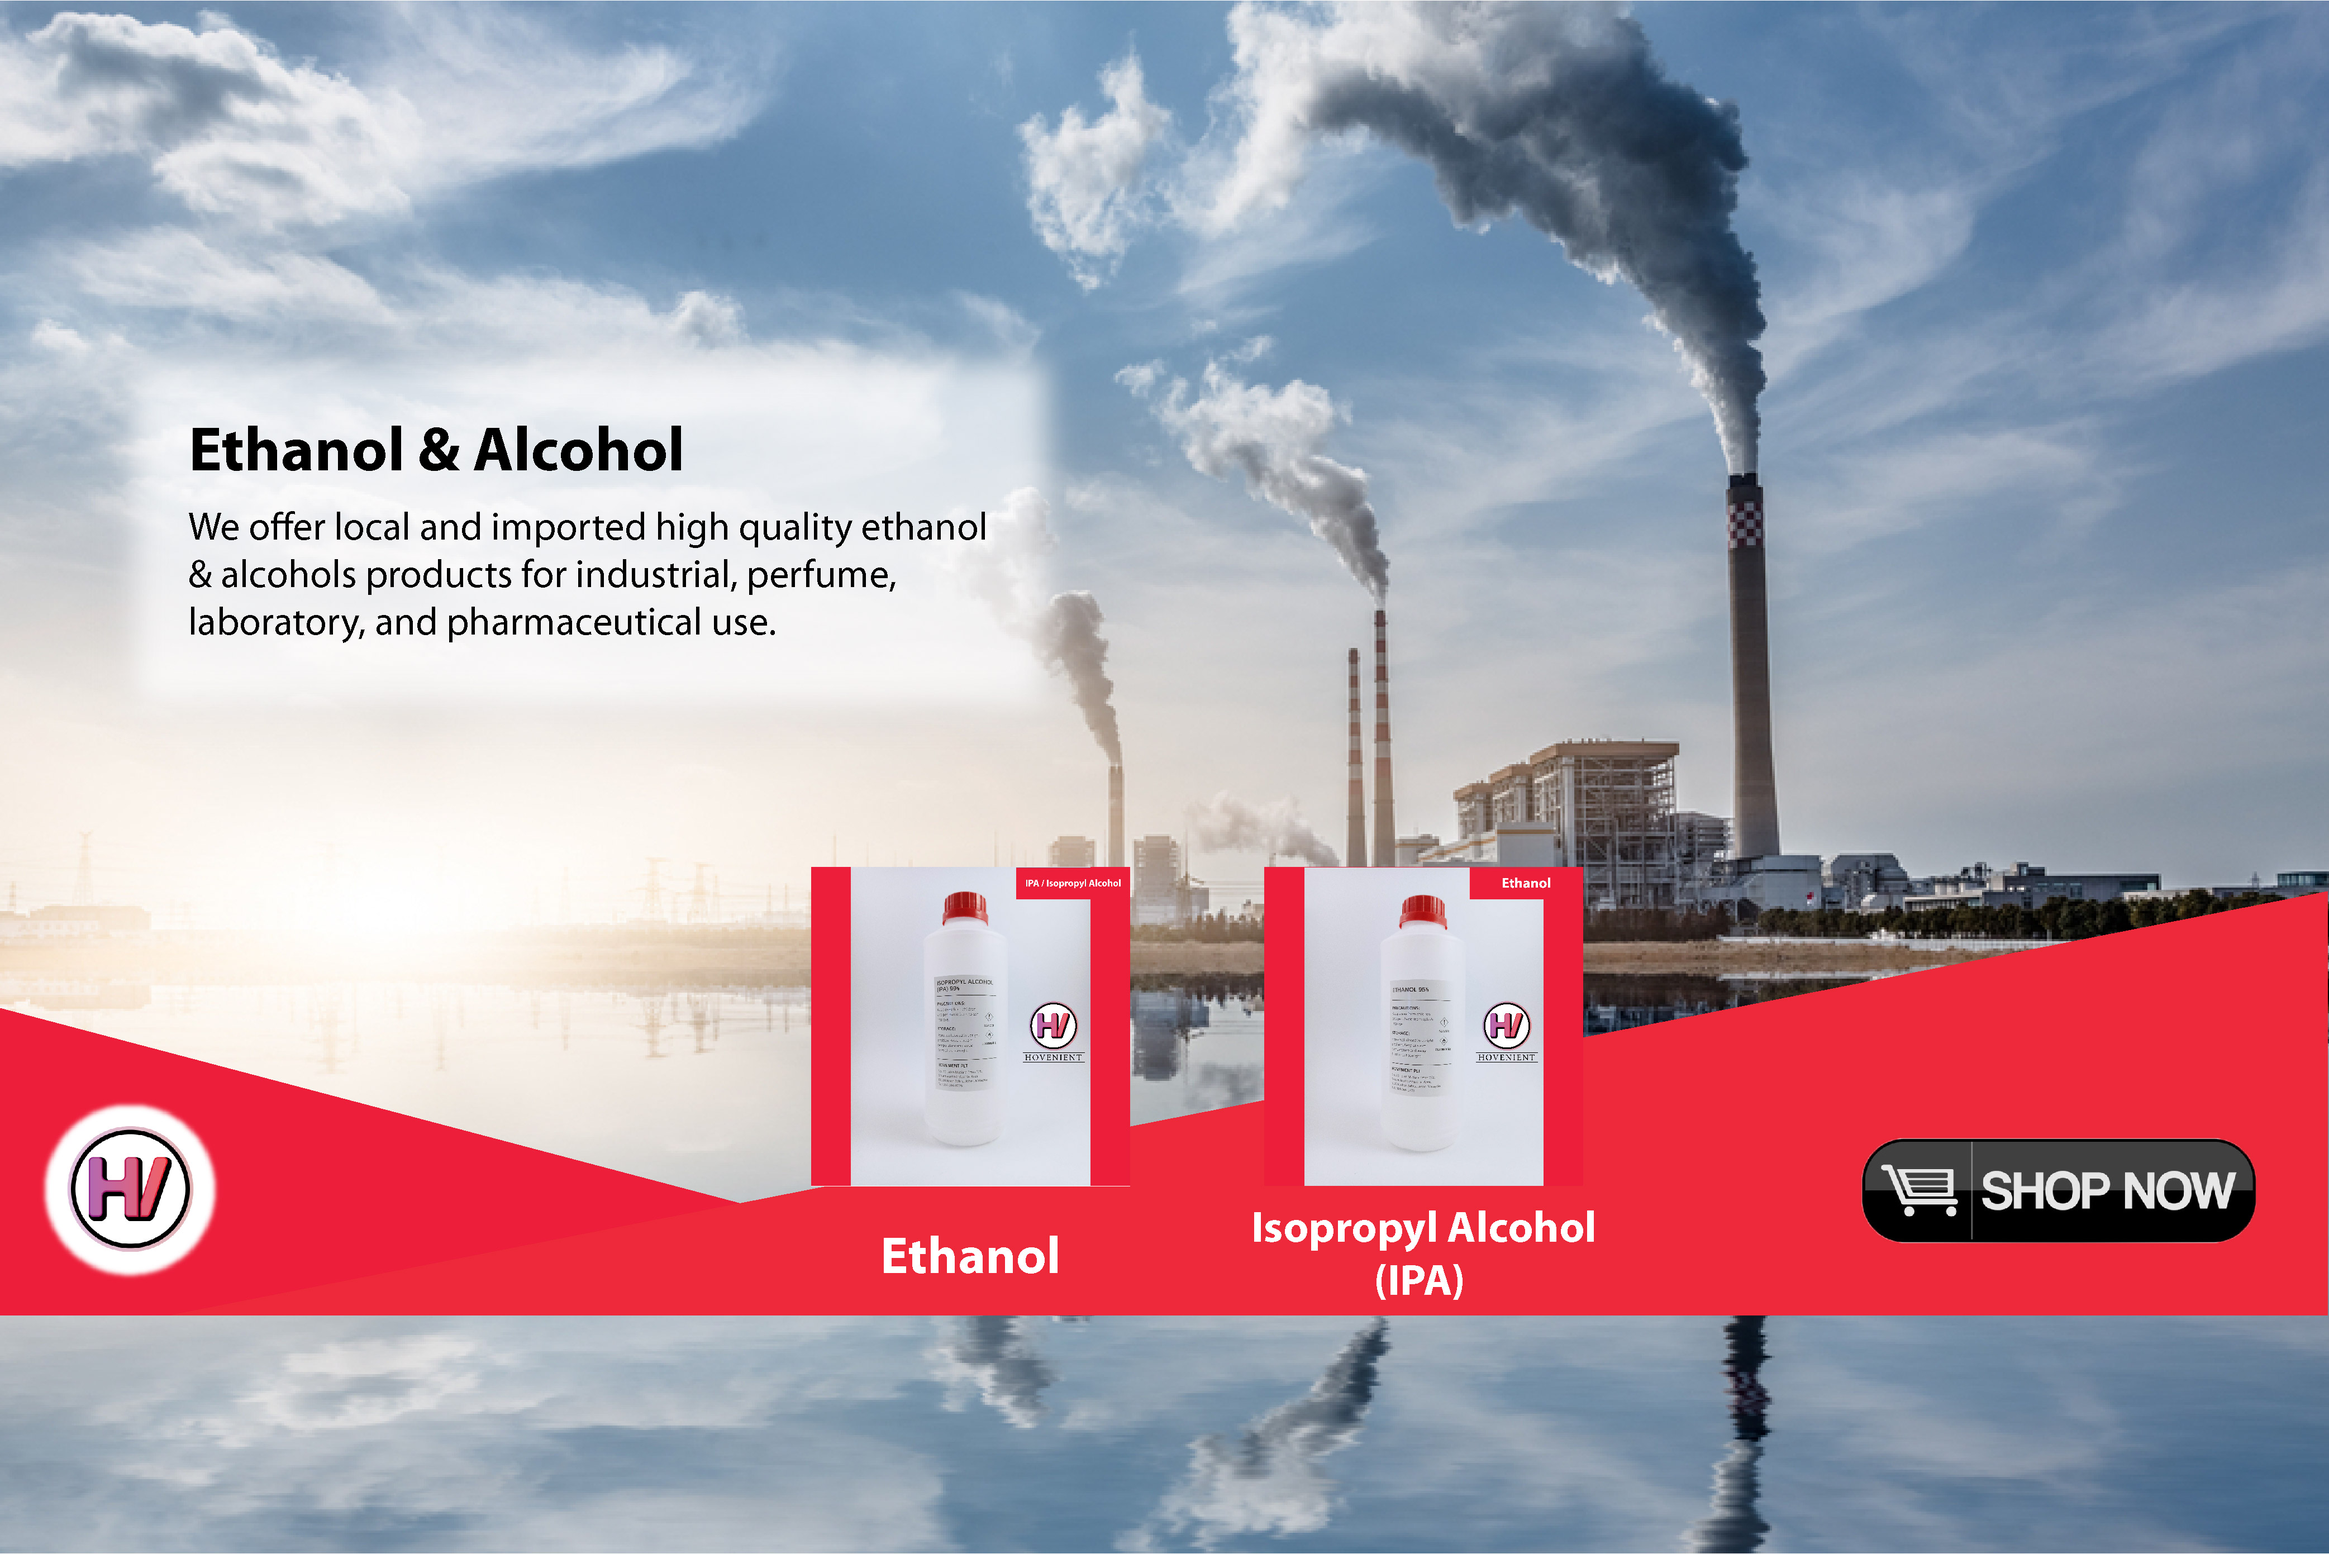
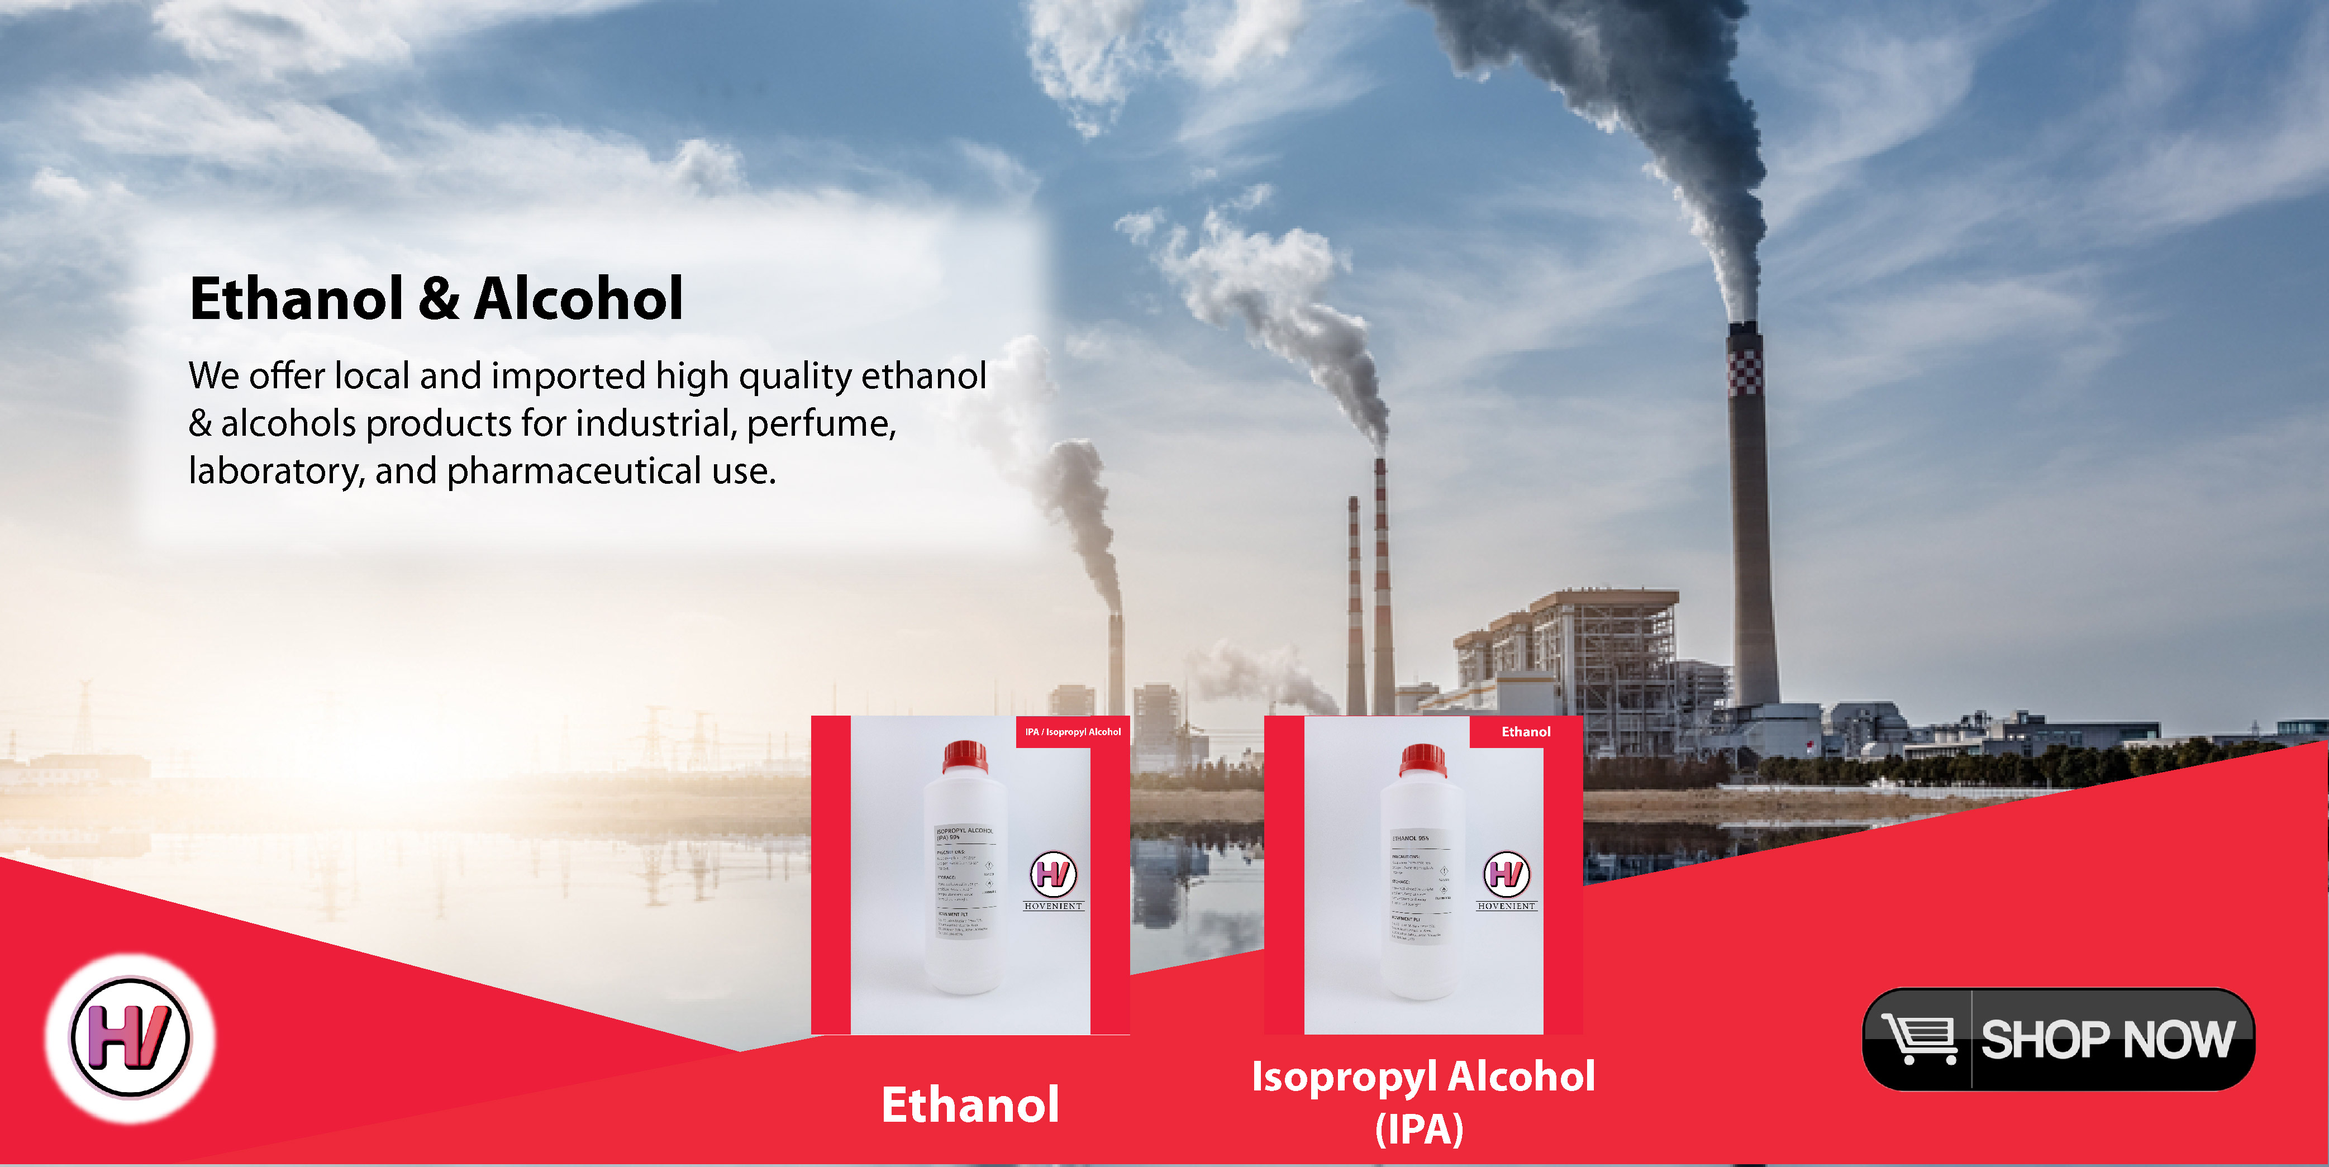
Added side margin for Carousel + Edited NavBar Product List

diff --git a/index.html b/index.html
@@ -30,8 +30,8 @@
         <img
           src="./images/Hovenient Logo Only Color.svg"
           alt=""
-          width="70"
-          height="70"
+          width="5rem"
+          height="5rem"
         />
         HOVENIENT PLT
       </a>
@@ -72,11 +72,37 @@
               Product
             </a>
             <div class="dropdown-menu" aria-labelledby="navbarDropdown">
-              <a class="dropdown-item" href="product.html"
-                >Industrial Chemicals</a
+              <a
+                style="font-size: small"
+                class="dropdown-item disabled"
+                href="product.html"
+                >Chemical Series</a
               >
+
+              <a class="dropdown-item" href="product.html">Raw Chemicals</a>
               <a class="dropdown-item" href="product.html">Blend Chemicals</a>
-              <a class="dropdown-item" href="product.html">Packaging</a>
+
+              <div class="dropdown-divider"></div>
+              <a
+                style="font-size: small"
+                class="dropdown-item disabled"
+                href="product.html"
+                >Food Series</a
+              >
+
+              <a class="dropdown-item" href="product.html">Food Ingredients</a>
+
+              <div class="dropdown-divider"></div>
+              <a
+                style="font-size: small"
+                class="dropdown-item disabled"
+                href="product.html"
+                >Others</a
+              >
+
+              <a class="dropdown-item" href="product.html"
+                >Bottles & Packaging</a
+              >
             </div>
           </li>
           <li class="nav-item">
@@ -86,10 +112,23 @@
       </div>
     </nav>
 
-    <!-- Carouset -->
+    <!-- Carousel -->
+    <!-- <div class="row">
+      <div style="background-color: red;" class="col">
+        1 of 3
+      </div>
+      <div style="background-color: greenyellow;" class="col-auto">
+        Variable width content
+      </div>
+      <div style="background-color: aqua;" class="col col-lg-2">
+        3 of 3
+      </div>
+    </div>
+  </div> -->
+
     <div
       id="carouselExampleIndicators"
-      class="carousel slide carousel-fade"
+      class="carousel slide carousel-fade custom-carousel-container"
       data-bs-ride="carousel"
     >
       <div class="carousel-indicators">
@@ -167,5 +206,15 @@
       integrity="sha384-ka7Sk0Gln4gmtz2MlQnikT1wXgYsOg+OMhuP+IlRH9sENBO0LRn5q+8nbTov4+1p"
       crossorigin="anonymous"
     ></script>
+
+    <script>
+      // $(window).resize(function () {
+      //   // if this.width() <
+
+      //   $("#custom-carousel-container").removeClass(
+      //     "justify-content-md-center"
+      //   );
+      // });
+    </script>
   </body>
 </html>

diff --git a/css/customStyle.css b/css/customStyle.css
@@ -58,6 +58,19 @@ p {
   }
 }
 
+/* Carousel */
+.row > * {
+  padding-right: 0;
+  padding-left: 0;
+}
+
+@media screen and (min-width: 1200px) {
+  .custom-carousel-container {
+    margin-left: 8rem;
+    margin-right: 8rem;
+  }
+}
+
 /* Google Map in contactUs.html*/
 .map-margin {
   margin: 1rem 0rem;
@@ -113,10 +126,6 @@ svg {
 
   .card-body {
     padding: 3rem 6.5rem;
-  }
-
-  .row {
-    padding-left: 1rem;
   }
 
   .list-myContainer {
